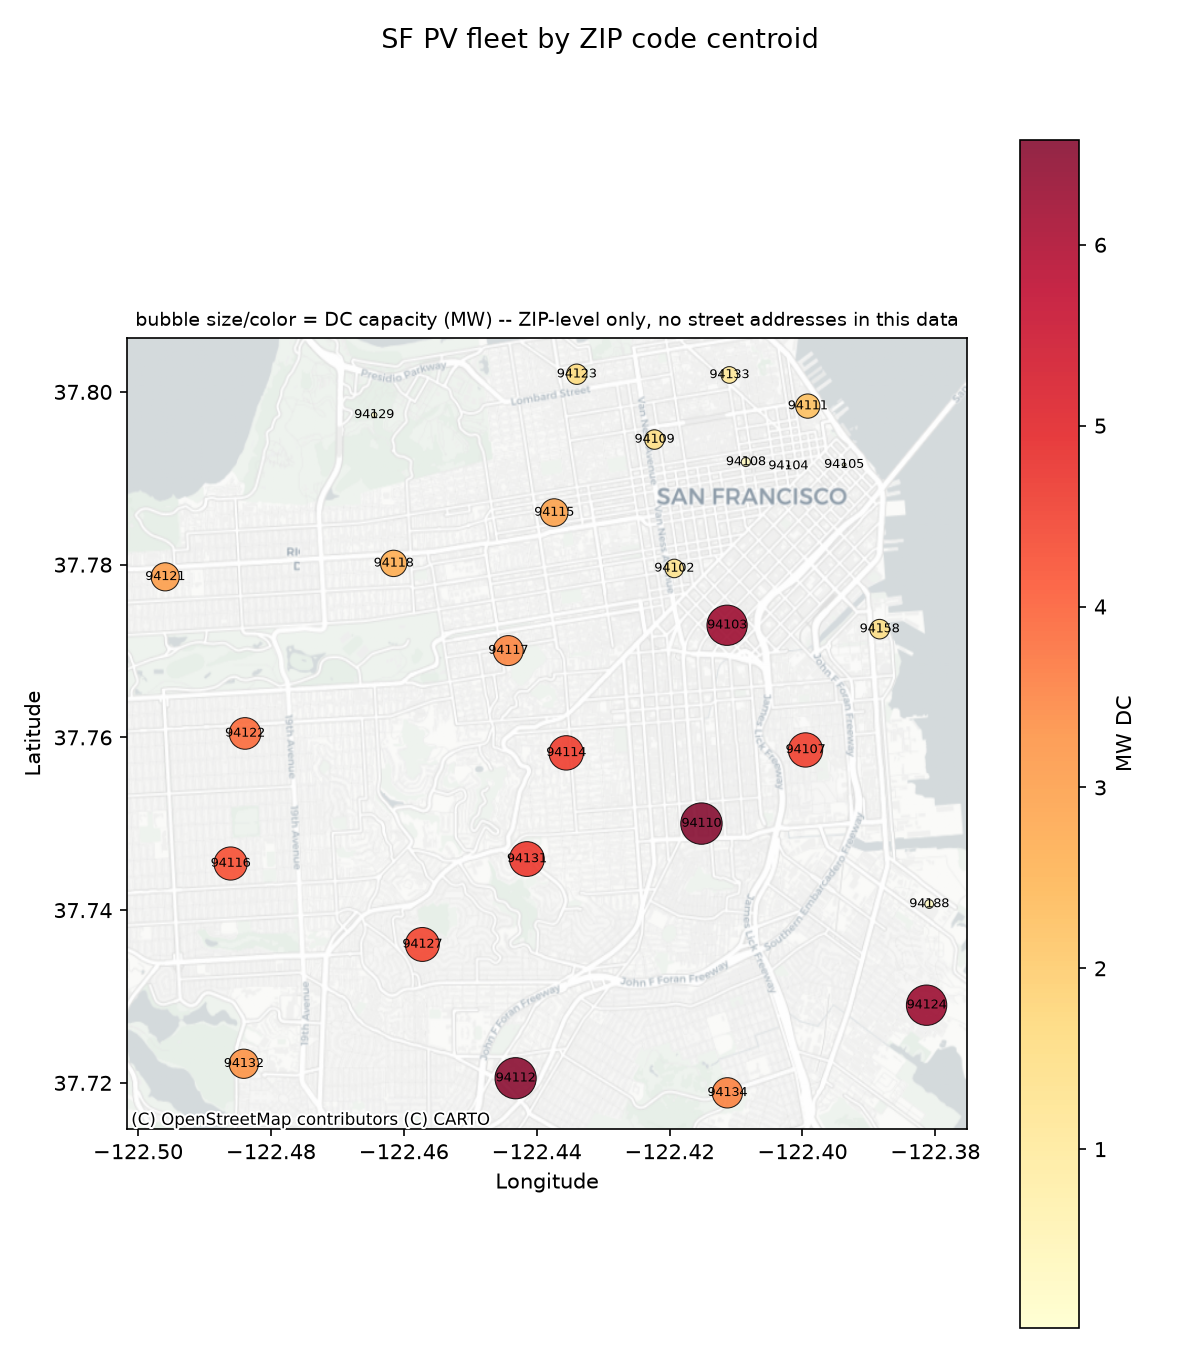
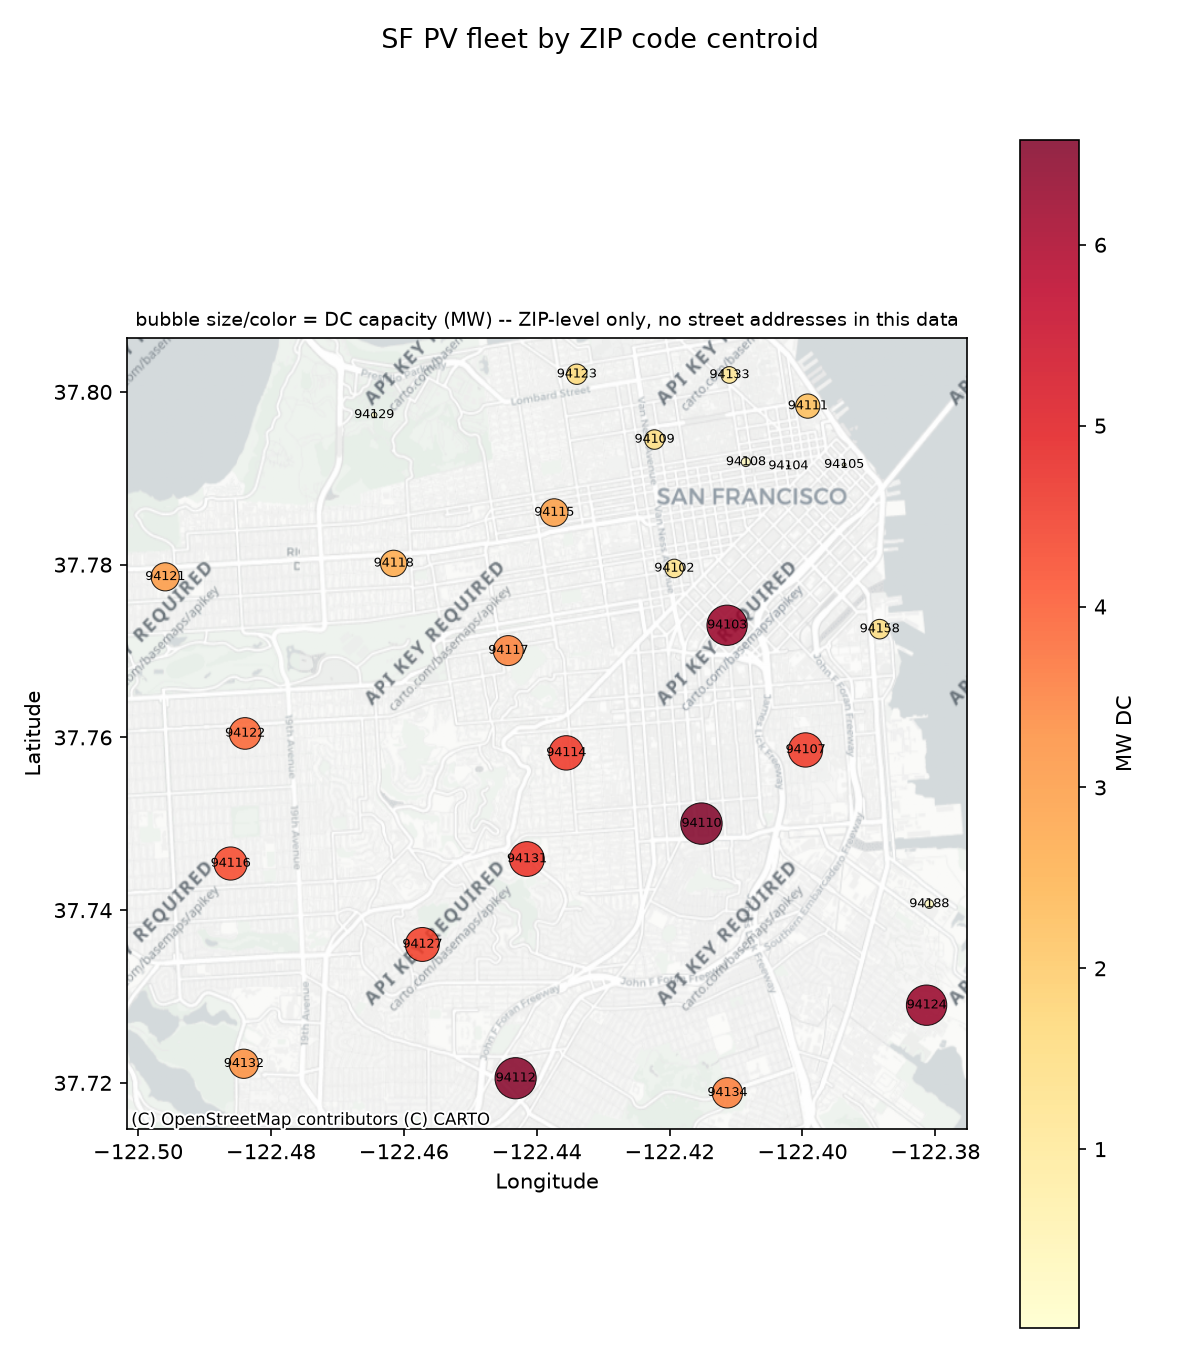
Record cross-examination findings; correct two refuted CLAUDE.md claims
An adversarial review of the CV branch. Every figure was reproduced
independently against the cached detections before being recorded.

Two claims already in CLAUDE.md are now known wrong and are corrected:

- The DSM date bug is fixed (1307286), so the "open findings" entry is
  rewritten to record the fix and its measured effect.
- Altstetten's "genuine tilt variety (4.3, 9.3, 9.6 deg)" -- the reason
  that area was chosen -- is refuted. After the date fix all 13 detections
  read 0.0-1.4 deg, and the two apparent exceptions are tile fragments
  whose contiguous other halves read 0.21 and 1.06 deg.

New findings, all verified:

- Fitted tilt correlates with footprint size at rho = -0.705 (n=14,
  p=0.0048), median 12.8 deg below 120 m2 vs 0.5 deg above. That is a
  leverage artifact, not roof physics, and it undermines every tilt number
  the branch has produced.
- A detection is a tile, not an array. 12 of 13 Altstetten detections
  cross a tile seam. Fragments of one contiguous surface disagree by up to
  179 deg in azimuth -- a free regression test that currently fails.
- pv_area_m2 sums the whole tile while tilt_deg comes from one facet, so
  they describe different objects whenever a tile spans two buildings.
- Three code defects confirmed by reading the source: stale plane
  coefficients on iteration exhaustion, the last tile row/column never
  generated, and an un-prefiltered 2.36x bilinear decimation.
[…]

diff --git a/CLAUDE.md b/CLAUDE.md
@@ -120,7 +120,11 @@ Explored going beyond ZIP-code fleet data to real per-building locations + LiDAR
 - **Second test area added: Altstetten (`altstetten` mode).** Wiedikon turned out almost entirely flat commercial/industrial roofs, not much of a stress test. Picking a second area properly (not guessing) took three tries:
   1. First pass: raw density of OpenStreetMap `generator:source=solar` tags across the city. The densest hotspot turned out to be ~90 individually-mapped panel nodes on **one** flat service building — an OSM mapping artifact (one enthusiastic mapper), not neighborhood-wide adoption. Landed the bbox mostly on a sports field and a highway.
   2. Second pass: cross-referenced actual building-footprint density against nearby solar-point density, to distinguish "many small buildings" from "one heavily-mapped roof." Found a much better cell (95 distinct buildings + 91 solar points within 300m) — but it turned out to center on **Bändlistrasse, next to the ARA Werdhölzli wastewater treatment plant**, not real houses. The high-confidence detections (13 arrays, 0.8–0.99 confidence, genuine tilt variety: 4.3°, 9.3°, 9.6°) are almost all on treatment-plant buildings; the actual residential blocks visible in the same frame scored ~0.001–0.03, essentially nothing.
-  3. Decision (confirmed with Christian): kept this area anyway. It genuinely delivers what the stress test needed — real pitch variety and plenty of confirmed solar — even though the source is a utility complex rather than single-family homes. `ZURICH_ALTSTETTEN = (8.4747, 47.4012)` in `scripts/level3_cv_detection.py` has the full story in a code comment.
+  3. Decision (confirmed with Christian): kept this area anyway. **NOTE (2026-09-05): the "real pitch
+     variety" justification has since been refuted** — see "Cross-examination findings" below. After the
+     DSM date fix, all 13 Altstetten detections read 0.0–1.4°, and the two apparent exceptions (5.7°,
+     10.2°) turned out to be tile fragments whose contiguous other halves read 0.21° and 1.06°. The area
+     still has plenty of confirmed real solar; it does not have the tilt variety it was chosen for. `ZURICH_ALTSTETTEN = (8.4747, 47.4012)` in `scripts/level3_cv_detection.py` has the full story in a code comment.
   - **Two more bugs found while chasing this down, both fixed:**
     - `fetch_swissimage_chip()` had the *exact same* single-tile bug `fetch_dsm_chip()` had before its earlier fix — only reading `items[0]` instead of mosaicking. Altstetten's bbox happened to straddle a SWISSIMAGE tile boundary (Wiedikon's didn't), silently truncating the fetched image to a fraction of the requested width and crashing the tile grid layout. Fixed the same way: `rasterio.merge.merge()` over all covering tiles, newest-first so overlaps still prefer the most recent acquisition.
     - The wind-rose's label-decluttering (added for Wiedikon) had a latent bug that only showed up with more detected arrays: it unwrapped azimuths past 360° by comparing each point's raw angle to the *previous label's already-pushed* position instead of to the *previous point's raw* position, so a raw angle could look like a false "wraparound" mid-walk and get shifted by multiples of 360° — landing some labels back on top of earlier, unrelated ones. Fixed by unwrapping the raw azimuth sequence once, cleanly, before doing any pushing.
@@ -129,8 +133,16 @@ Explored going beyond ZIP-code fleet data to real per-building locations + LiDAR
 
 Verified against the live STAC API; recorded here because the code still has the bug.
 
-- **We are silently using 2018 elevation data against 2025 imagery.** Every DSM tile over both test areas exists in *both* a 2018 and a 2024 version. `fetch_dsm_chip()` collects every covering `.tif` with **no date sorting**, and `rasterio.merge` keeps the *first* dataset's pixels where tiles overlap — and the STAC API returns 2018 first. So every run so far has fit planes to the 2018 surface. (`fetch_swissimage_chip()` already sorts newest-first; `fetch_dsm_chip()` never got the same treatment.) **Fix is small:** sort items by `properties.datetime` descending before building the href list, same as the imagery fetch. That closes the imagery/elevation gap from 7 years to 1.
-  - **Why this matters beyond tidiness:** any array installed 2019–2025 appears in the 2025 photo but sits on a 2018 DSM that predates it — so we'd be fitting a plane to the roof *as it was before the panels existed*. This is a strong candidate explanation for several things chased in this session: outlier clusters under panel footprints, "panels raised above the roof deck," and especially the per-building registration shifts that scattered randomly instead of agreeing on one direction. The NCC check's "no consistent global offset" conclusion may be right about there being no *global* offset while still missing a real *per-building, temporal* mismatch. **Re-run both test areas after fixing the date selection before trusting any of the current tilt/azimuth numbers.**
+- **~~We are silently using 2018 elevation data against 2025 imagery.~~ FIXED 2026-09-05** (commit
+  `1307286`). `fetch_dsm_chip()` now sorts STAC items by `properties.datetime` descending before
+  building the href list, same as the imagery fetch. Verified live: both test areas return 4x 2018 +
+  4x 2024 tiles, and the API returns 2018 first, so `rasterio.merge` was keeping 2018 pixels.
+  **The effect was large.** Over one 20m box at the Wiedikon test building (8624 px), 2024 vs 2018
+  differ by >0.30m (the whole outlier threshold) across **49.3%** of pixels and by >1m across 18.4%.
+  Mean difference +0.007m, so no vertical bias -- the change is entirely local. One detection's
+  reported tilt moved 8.0deg -> 12.6deg on the fix alone. **Any tilt/azimuth number recorded in this
+  file before 2026-09-05 was fitted to 2018 elevation and should not be trusted.**
+
 - **Higher-resolution LiDAR is available and we're not using it.** swissSURFACE3D publishes two products, and we've only ever used the derived raster:
 
   | Collection | What it is | Density | Format |
@@ -175,3 +187,87 @@ sf-solar/
 ├── site/            # static website (GitHub Pages)
 └── .github/workflows/   # scheduled update job
 ```
+
+## Cross-examination findings (2026-09-05)
+
+An adversarial review of the whole CV branch. Every number below was **reproduced independently**
+against the cached detections (`data/level3_cv_*_detections.npz`) before being written down.
+
+**Confirmed, and serious:**
+
+- **Fitted tilt is a function of footprint size, not roof physics.** Spearman(area, tilt) over Wiedikon
+  = **−0.705, n=14, p=0.0048**; survives dropping the 66.3° outlier (−0.676, p=0.011). Median tilt is
+  **12.8° for footprints <120 m²** and **0.5° for ≥120 m²**. Altstetten shows −0.170 (p=0.58) only
+  because its smallest footprint is 212 m² — range restriction, not different physics. Mechanism is
+  leverage: for a small footprint, one contaminating edge DSM pixel at Δz≈10m swings the fit by
+  degrees. `MAX_OUTLIER_FRACTION = 0.2` makes this worse by switching the estimator between trimmed
+  and untrimmed as a function of size, so trimmed and untrimmed tilts are pooled in every plot and
+  claim despite being different estimators. **Plot tilt vs area on every run.**
+- **A "detection" is a tile, not an array.** `tile_chip()` uses stride == tile size, so a large array
+  is cut at seams and each piece becomes an independent detection with its own area, centroid and
+  plane fit. **12 of 13 Altstetten detections** and 3 of 19 Wiedikon detections belong to a mask
+  component that crosses a seam. This gives a free, ground-truth-free regression test — two fragments
+  of one contiguous surface must return the same plane — and it currently **fails**: median azimuth
+  disagreement 84°, max **179°**; max tilt disagreement 9.16°.
+- **`pv_area_m2` and `tilt_deg` describe different objects.** Area sums the whole tile mask across
+  every building in it; tilt comes from `planes[0]`, the single largest connected facet. A 256px tile
+  at 0.2359 m/px is 60m across — several buildings in dense Zurich.
+- **Segmentation badly under-covers large true positives.** On the 1322 m² and 584 m² arrays the masks
+  trace narrow strips across roofs that are panel-covered edge to edge.
+
+**Confirmed code defects (all still present):**
+
+- `fit_roof_plane()` returns coefficients inconsistent with its own mask when the loop exits by
+  exhausting `MAX_OUTLIER_ITERATIONS`: the last pass assigns `valid = tightened` and the loop ends with
+  no refit, so the returned `(a,b,c)` was fit to the previous, larger point set. `fit_group_planes()`
+  then peels leftovers against that stale pairing.
+- `tile_chip()` uses `range(0, h - TILE_PX, TILE_PX)` — exclusive, so the last full tile row and column
+  are never generated. At any dimension that is an exact multiple of 256, a whole row and column of the
+  chip goes unclassified.
+- `fetch_swissimage_chip()` uses `Resampling.bilinear` for a **2.36× decimation** with no anti-alias
+  prefilter, so periodic high-frequency structure folds — which is exactly what panel rows *and*
+  skylight glazing grids are. Plausible mechanical contributor to the skylight confusion; a one-word
+  fix (`Resampling.average`/`lanczos`) and a cheap experiment to re-score and diff.
+- No plausibility gate anywhere: a 66.3° "roof" was computed, cached, plotted and reported without a
+  warning, in a project whose central rule is sanity ranges.
+
+**The false-positive audit, withdrawn as a rate.** The native-10cm audit found the highest-confidence
+Wiedikon detection (p=0.952) is four dormer skylights while the two largest unambiguous real arrays
+score 0.348 and 0.260 — that specific observation stands and was independently confirmed by Christian.
+But the *rate* does not: labels were assigned with the model's own contour drawn over the imagery, by
+the person who built the pipeline (anchoring), and with 4 clear positives vs 4 clear negatives the
+minimum attainable one-sided p is 1/70, so the design cannot reject chance ranking even in principle.
+Depending on denominator the FP rate spans [0.14, 0.91]. **Treat it as unmeasured.** Nobody has looked
+at false *negatives* at all, and for an aggregate MW total missed capacity is the one-sided bias that
+actually matters.
+
+**Useful data source found:** `ch.bfe.elektrizitaetsproduktionsanlagen` (Swiss federal electricity
+production plants) is queryable via `api3.geo.admin.ch/rest/services/all/MapServer/identify` and returns
+PV plants with capacity and commissioning date — 17 within a 700m box over Wiedikon, 6 over Altstetten.
+Use it as a **denominator for recall**, not as a per-case confirmation oracle: coverage is incomplete
+and points are geocoded to street addresses, not array centroids. Also `ch.bfe.solarenergie-eignung-daecher`
+(sonnendach) publishes per-roof-facet tilt/azimuth nationally — a way to validate `fit_group_planes()`
+at n≈500 with no CV involved, though it measures the *roof* not the *panels*, so racks should disagree.
+
+### The strategic question nobody had asked
+
+`scripts/level3_fleet.py` already reads per-system `Tilt` and `Azimuth` straight from CA DG Stats, with
+the azimuth convention verified against the official data key. Running it:
+
+```
+Systems needing tilt/azimuth gap-fill ('multiple'): 376 (4.1% of capacity)
+```
+
+**95.9% of San Francisco's installed capacity already has measured tilt and azimuth.** This branch
+exists to derive, from imagery SF does not have, a quantity SF already knows. It has earned its keep —
+it surfaced the DSM date bug and a lot about the data — but it is **not on the critical path** to a
+citywide MW curve.
+
+Before any further investment here, do the one-hour pvlib sensitivity table: citywide MW error per 10°
+of tilt error and per 20° of azimuth error, at 09:00 / 12:00 / 17:00. For an instantaneous nowcast
+azimuth matters far more than annual-energy intuition suggests (an east- vs west-facing array at 20°
+tilt differs by 2–5× at 08:00 and 17:00). That number decides whether this branch deserves more effort
+than the capacity branch.
+
+Full three-way pipeline comparison (current / +point cloud / +normal segmentation) with all of today's
+measurements: https://claude.ai/code/artifact/c259959a-0425-451c-a7be-3dde0e962d5c
